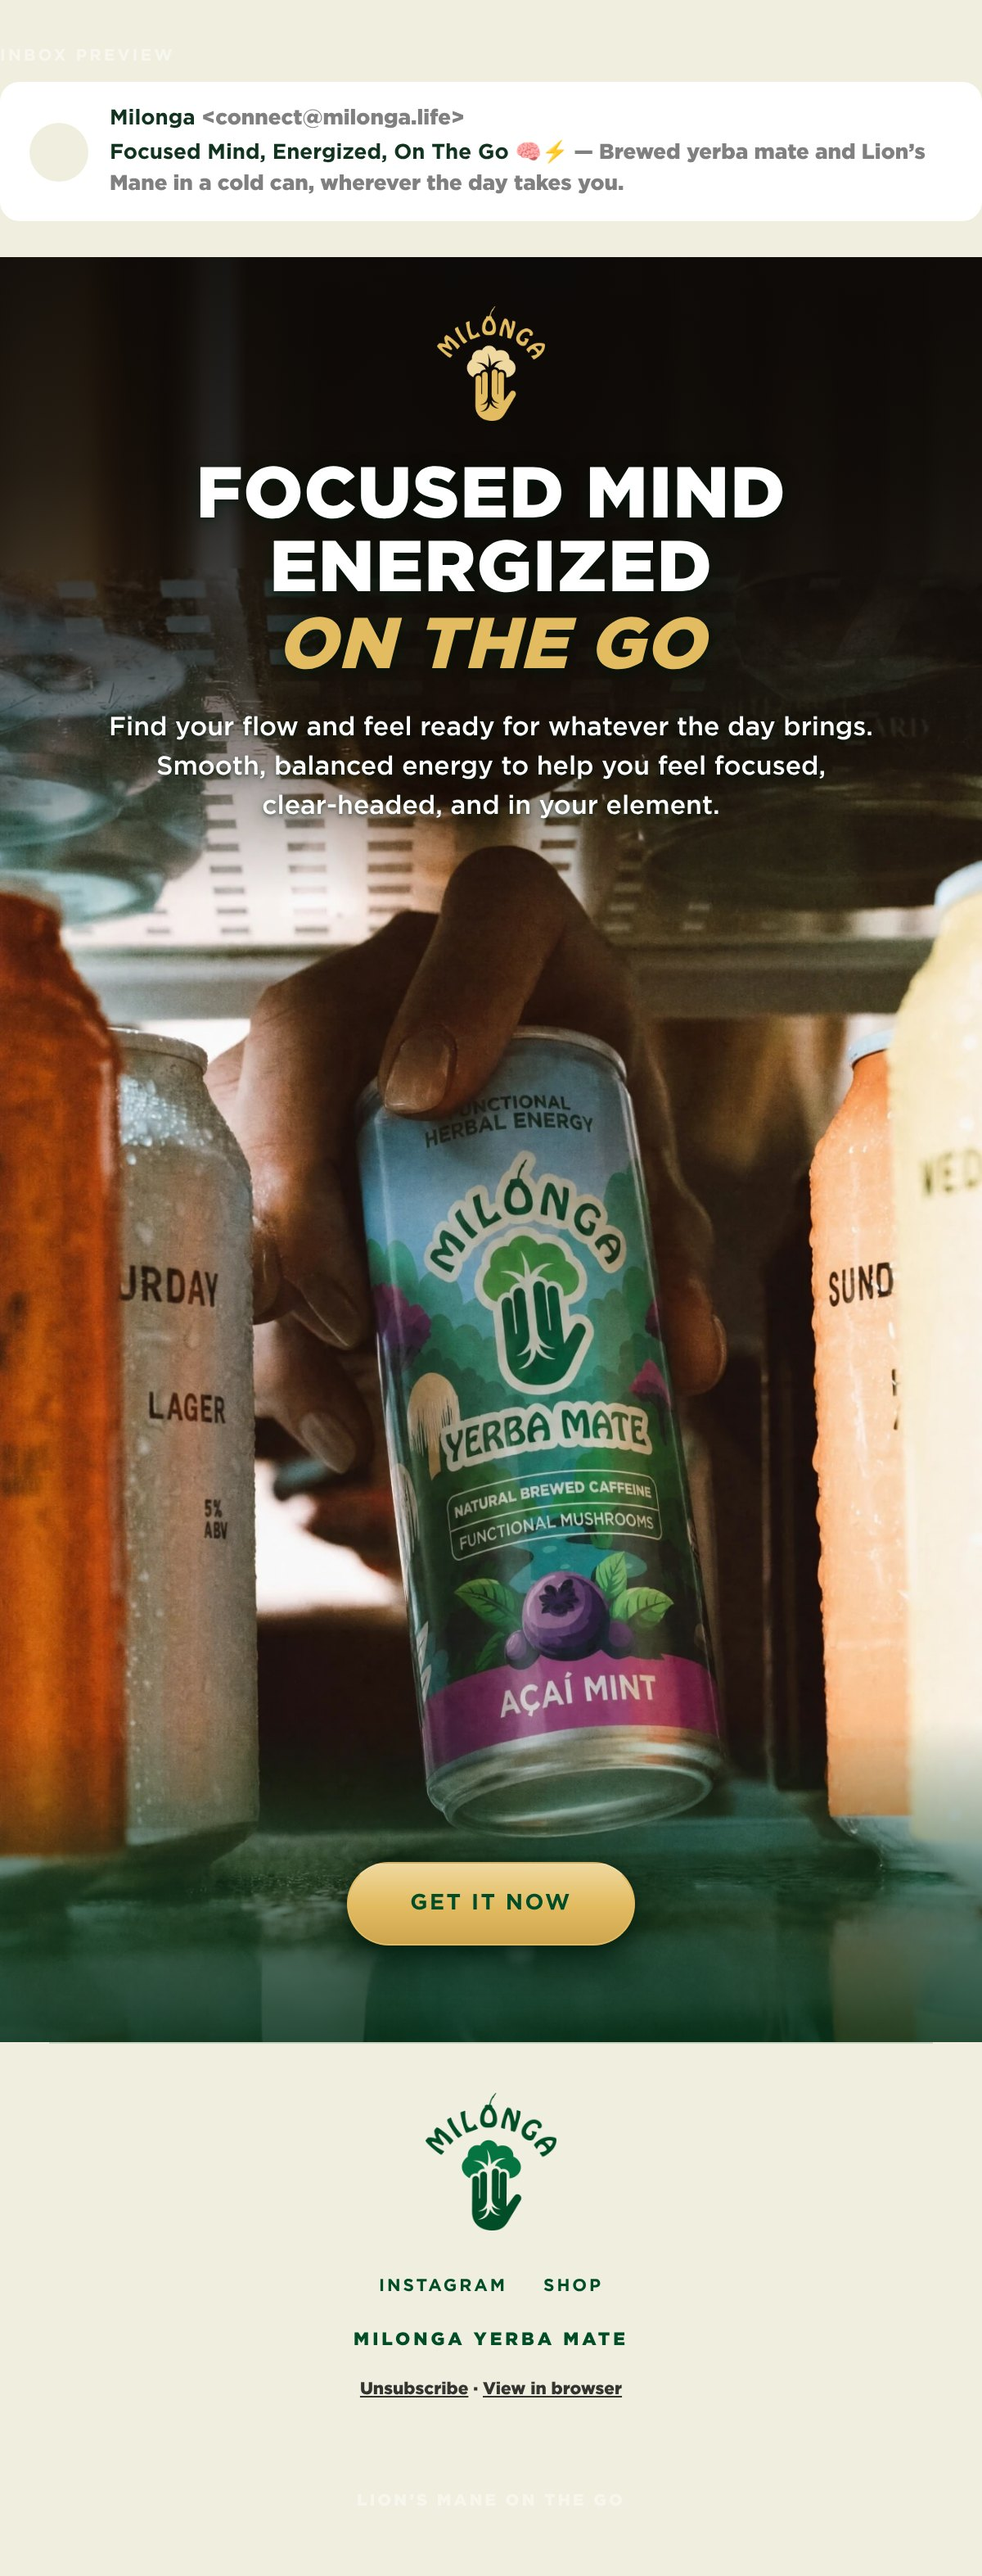
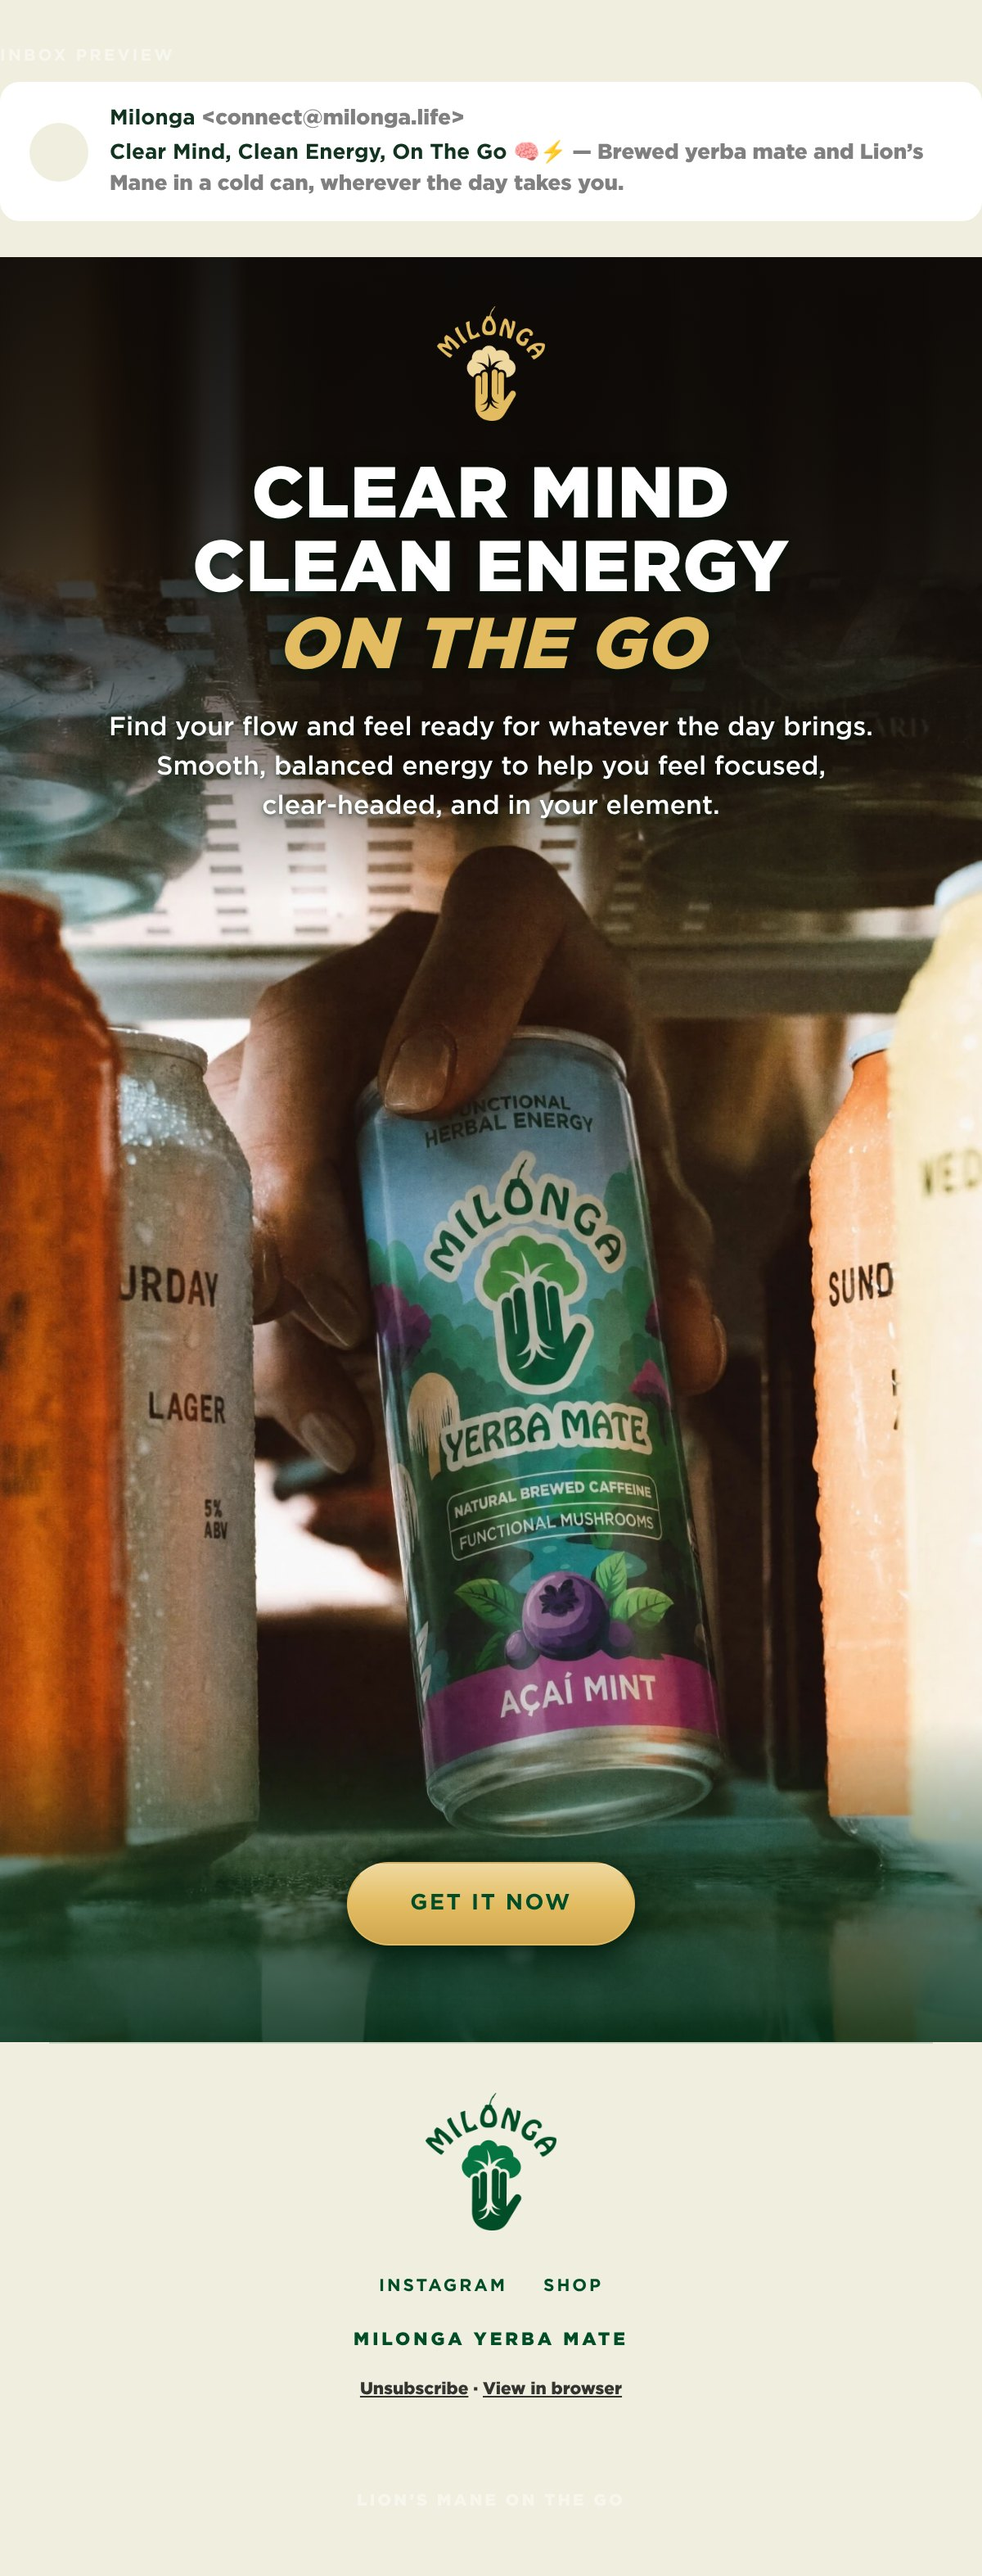
email: Lion's Mane on the go — title CLEAR MIND / CLEAN ENERGY / ON THE GO
Claude-Session: https://claude.ai/code/session_01NhEtXPnfeCJfN73SqBkUZ5

diff --git a/email-ds/emails/on-the-go.jsx b/email-ds/emails/on-the-go.jsx
@@ -1,4 +1,4 @@
-// FOCUSED MIND, ENERGIZED, ON THE GO — the Lion's Mane cans, a lifestyle
+// CLEAR MIND, CLEAN ENERGY, ON THE GO — the Lion's Mane cans, a lifestyle
 // email about drinking them on the move.
 //
 // Copy is Bernat's, word for word (title, paragraph, button). No build
@@ -22,7 +22,7 @@ const HEAD = 190;
 const CTA_TOP = HEAD + 790;
 
 const SECTION_1_ALT =
-  'Milonga. Focused mind, energized, on the go. Find your flow and feel ready ' +
+  'Milonga. Clear mind, clean energy, on the go. Find your flow and feel ready ' +
   'for whatever the day brings. Smooth, balanced energy to help you feel ' +
   'focused, clear-headed, and in your element. A hand lifts a can of Milonga ' +
   'Yerba Mate in Açaí Mint from a fridge shelf between other cans. Get it now.';
@@ -44,8 +44,8 @@ function OnTheGo({ shopHref = '#shop' }) {
         textShadow: '0 2px 10px rgba(0,26,13,0.6), 0 1px 2px rgba(0,26,13,0.5)' } },
         h(M.Logo, { tone: 'gold', variant: 'primary', height: 70 }),
         h('div', { style: { marginTop: 20 } },
-          h('div', { style: title }, 'Focused mind'),
-          h('div', { style: title }, 'energized'),
+          h('div', { style: title }, 'Clear mind'),
+          h('div', { style: title }, 'Clean energy'),
           h('div', { style: { ...title, color: GOLD, fontStyle: 'italic', fontWeight: 800, marginTop: 2 } }, 'on the go')),
         h('div', { style: { fontFamily: FONT, fontWeight: 500, fontSize: 16, lineHeight: 1.5,
           color: '#FFFFFF', margin: '14px auto 0', maxWidth: 480 } },

diff --git a/email-ds/refine/on-the-go.html b/email-ds/refine/on-the-go.html
@@ -11,7 +11,7 @@
 <script src="../emails/on-the-go.jsx"></script>
 <script>
 mountEmail(OnTheGo, {
-  subject: 'Focused Mind, Energized, On The Go 🧠⚡',
+  subject: 'Clear Mind, Clean Energy, On The Go 🧠⚡',
   preheader: 'Brewed yerba mate and Lion’s Mane in a cold can, wherever the day takes you.',
   label: 'Lion’s Mane on the go',
   bg: '#F0EFDF',
